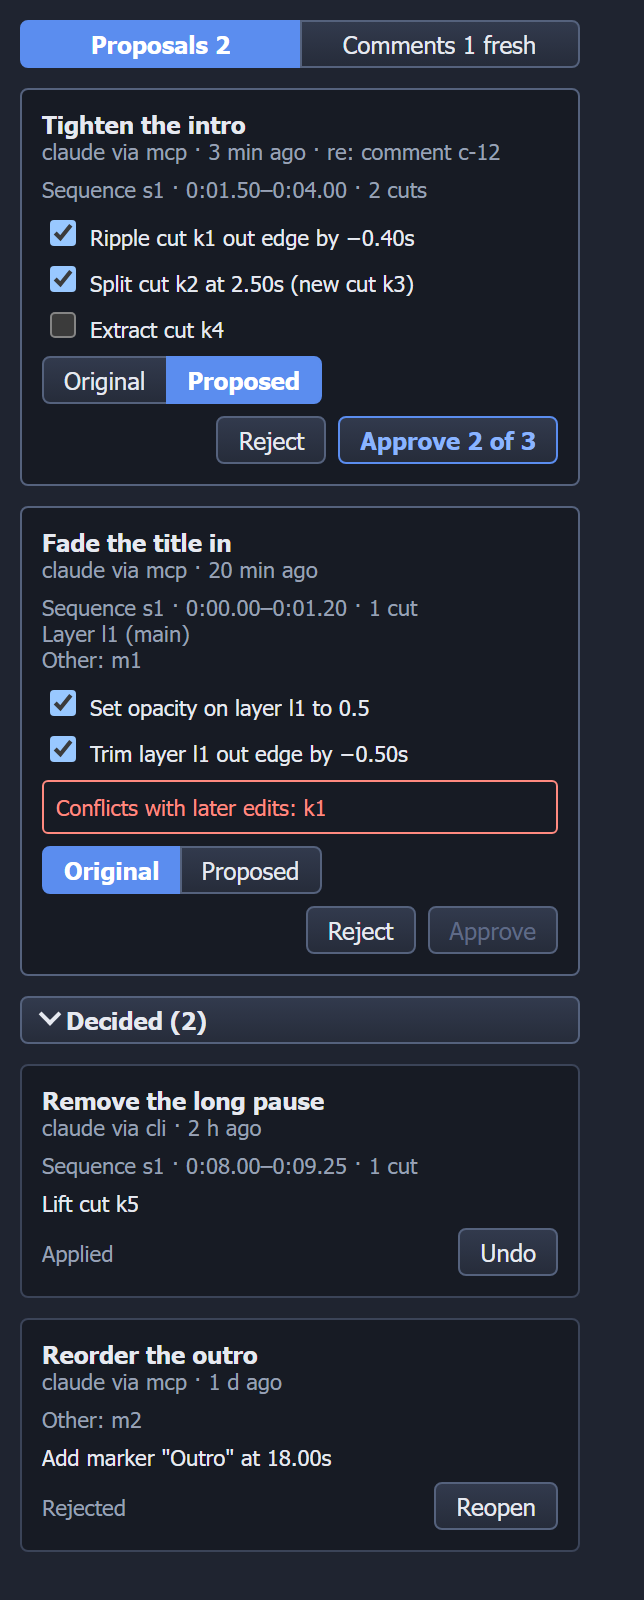
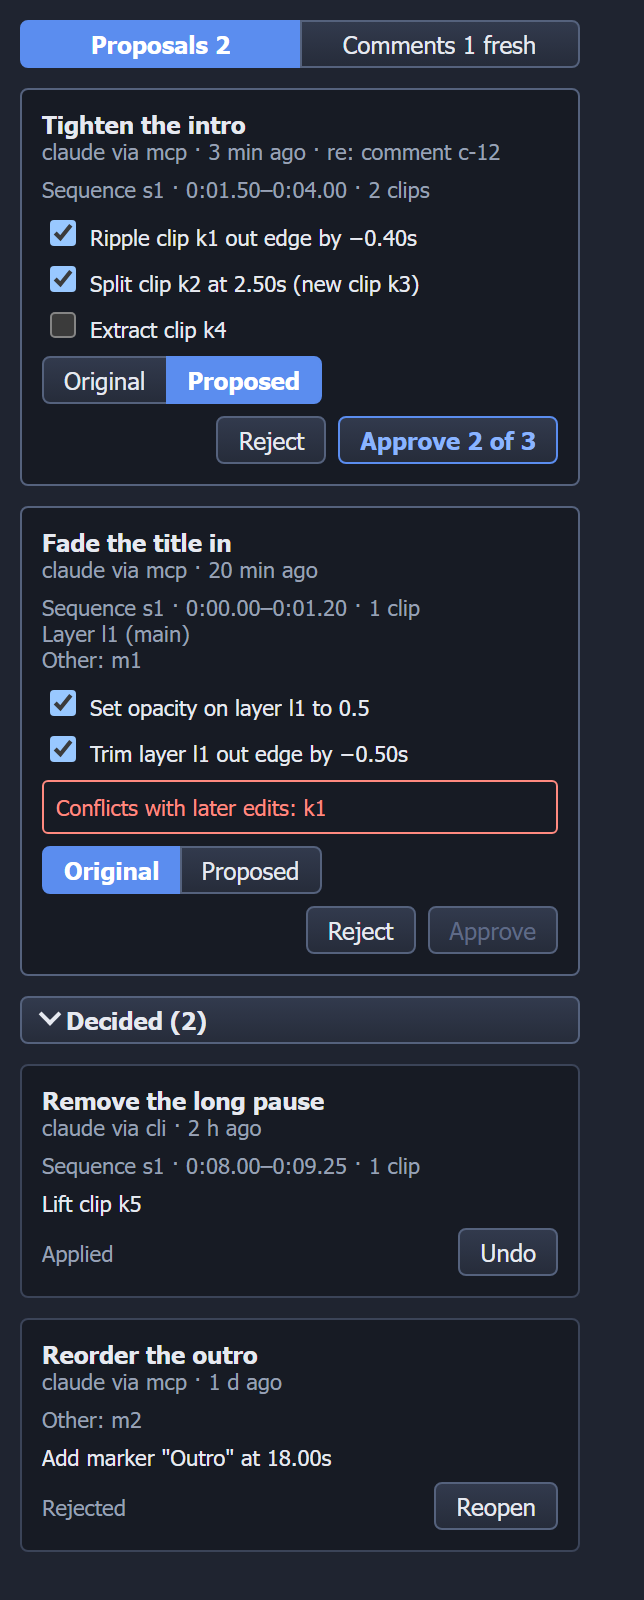
fix(movie-maker): 画面ではシーケンスのカットを Clip と呼ぶ（Transitions と Review）
設計書 18-ui-clarity.md の「文言」の決まり（シーケンスのカットは画面では Clip）に、
Transitions のパネルの帯と最初のクリップの文、Review のパネルの操作と範囲の行を合わせる。
Review のスクリーンショットを撮り直し、Transitions のテストの失敗の例を英語の IPC のエラーにする。

Claude-Session: https://claude.ai/code/session_019jHytpcCXvKc7poCLp9Pj5

diff --git a/movie-maker/ui/panels/review/src/model.ts b/movie-maker/ui/panels/review/src/model.ts
@@ -59,7 +59,7 @@ const valueText = (v: ParamValue): string => {
 
 const paramOwner = (target: ParamRef): string => {
   if (target.layer) return `layer ${target.layer}`;
-  if (target.cut) return `cut ${target.cut}`;
+  if (target.cut) return `clip ${target.cut}`;
   return "project";
 };
 
@@ -68,19 +68,19 @@ const keyframeText = (k: Keyframe): string => `${plainSeconds(k.time)} to ${valu
 type Describers = { [N in OpName]?: (op: OpOf<N>) => string };
 
 const DESCRIBERS: Describers = {
-  ripple: (o) => `Ripple cut ${o.cut} ${o.edge} edge by ${signedSeconds(rationalSeconds(o.by))}`,
-  roll: (o) => `Roll cut ${o.cut} by ${signedSeconds(rationalSeconds(o.by))}`,
-  slip: (o) => `Slip cut ${o.cut} by ${signedSeconds(rationalSeconds(o.by))}`,
-  slide: (o) => `Slide cut ${o.cut} by ${signedSeconds(rationalSeconds(o.by))}`,
-  split: (o) => `Split cut ${o.cut} at ${plainSeconds(o.at)} (new cut ${o.new_cut})`,
-  join: (o) => `Join cut ${o.cut} with ${o.next}`,
-  insert: (o) => `Insert cut ${o.cut.id} into sequence ${o.sequence} at ${o.index}`,
-  overwrite: (o) => `Replace cut ${o.cut} with ${o.replacement.id}`,
-  extract: (o) => `Extract cut ${o.cut}`,
-  lift: (o) => `Lift cut ${o.cut}`,
-  disable: (o) => `${o.disabled === false ? "Enable" : "Disable"} cut ${o.cut}`,
-  insertCuts: (o) => `Insert ${plural(o.cuts.length, "cut")} into sequence ${o.sequence} at ${o.index}`,
-  extractCuts: (o) => `Extract ${plural(o.count, "cut")} from sequence ${o.sequence} at ${o.index}`,
+  ripple: (o) => `Ripple clip ${o.cut} ${o.edge} edge by ${signedSeconds(rationalSeconds(o.by))}`,
+  roll: (o) => `Roll clip ${o.cut} by ${signedSeconds(rationalSeconds(o.by))}`,
+  slip: (o) => `Slip clip ${o.cut} by ${signedSeconds(rationalSeconds(o.by))}`,
+  slide: (o) => `Slide clip ${o.cut} by ${signedSeconds(rationalSeconds(o.by))}`,
+  split: (o) => `Split clip ${o.cut} at ${plainSeconds(o.at)} (new clip ${o.new_cut})`,
+  join: (o) => `Join clip ${o.cut} with ${o.next}`,
+  insert: (o) => `Insert clip ${o.cut.id} into sequence ${o.sequence} at ${o.index}`,
+  overwrite: (o) => `Replace clip ${o.cut} with ${o.replacement.id}`,
+  extract: (o) => `Extract clip ${o.cut}`,
+  lift: (o) => `Lift clip ${o.cut}`,
+  disable: (o) => `${o.disabled === false ? "Enable" : "Disable"} clip ${o.cut}`,
+  insertCuts: (o) => `Insert ${plural(o.cuts.length, "clip")} into sequence ${o.sequence} at ${o.index}`,
+  extractCuts: (o) => `Extract ${plural(o.count, "clip")} from sequence ${o.sequence} at ${o.index}`,
   trimLayer: (o) => `Trim layer ${o.layer} ${o.edge} edge by ${signedSeconds(rationalSeconds(o.by))}`,
   addLayer: (o) => `Add layer ${o.layer.id} to ${o.composition}`,
   removeLayer: (o) => `Remove layer ${o.layer}`,
@@ -100,10 +100,10 @@ export const describeOp = ({ op, touches }: ProposalOp): string => {
   return touches.length > 0 ? `${op.op} (${touches.join(", ")})` : op.op;
 };
 
-/** 範囲を `Sequence s1 · 0:01.50–0:04.00 · 2 cuts` などの行にする。 */
+/** 範囲を `Sequence s1 · 0:01.50–0:04.00 · 2 clips` などの行にする。 */
 export const describeScope = (scope: ProposalScope): string[] => [
   ...scope.sequences.map(
-    (s) => `Sequence ${s.id} · ${clock(s.start)}–${clock(s.end)} · ${plural(s.cuts.length, "cut")}`,
+    (s) => `Sequence ${s.id} · ${clock(s.start)}–${clock(s.end)} · ${plural(s.cuts.length, "clip")}`,
   ),
   ...scope.layers.map((l) => `Layer ${l.id} (${l.comp})`),
   ...(scope.other.length > 0 ? [`Other: ${scope.other.join(", ")}`] : []),

diff --git a/movie-maker/ui/panels/review/src/model.test.ts b/movie-maker/ui/panels/review/src/model.test.ts
@@ -8,8 +8,8 @@ const t = (num: number, den = 100) => ({ num, den });
 
 describe("describeOp", () => {
   it("リップルは端と秒数を符号つきで書く", () => {
-    expect(line({ op: "ripple", cut: "k1", edge: "out", by: t(-40) })).toBe("Ripple cut k1 out edge by −0.40s");
-    expect(line({ op: "ripple", cut: "k1", edge: "in", by: t(1, 4) })).toBe("Ripple cut k1 in edge by +0.25s");
+    expect(line({ op: "ripple", cut: "k1", edge: "out", by: t(-40) })).toBe("Ripple clip k1 out edge by −0.40s");
+    expect(line({ op: "ripple", cut: "k1", edge: "in", by: t(1, 4) })).toBe("Ripple clip k1 in edge by +0.25s");
   });
 
   it("setParam は持ち主と値を書く", () => {
@@ -18,10 +18,10 @@ describe("describeOp", () => {
   });
 
   it("カットの操作を 1 行にする", () => {
-    expect(line({ op: "split", cut: "k1", at: t(250), new_cut: "k2" })).toBe("Split cut k1 at 2.50s (new cut k2)");
-    expect(line({ op: "extract", cut: "k1" })).toBe("Extract cut k1");
-    expect(line({ op: "lift", cut: "k1" })).toBe("Lift cut k1");
-    expect(line({ op: "disable", cut: "k1", disabled: false })).toBe("Enable cut k1");
+    expect(line({ op: "split", cut: "k1", at: t(250), new_cut: "k2" })).toBe("Split clip k1 at 2.50s (new clip k2)");
+    expect(line({ op: "extract", cut: "k1" })).toBe("Extract clip k1");
+    expect(line({ op: "lift", cut: "k1" })).toBe("Lift clip k1");
+    expect(line({ op: "disable", cut: "k1", disabled: false })).toBe("Enable clip k1");
   });
 
   it("レイヤーとマーカーの操作を 1 行にする", () => {
@@ -46,7 +46,7 @@ describe("describeScope", () => {
         layers: [{ comp: "main", id: "l1" }],
         other: ["m1"],
       }),
-    ).toEqual(["Sequence s1 · 0:01.50–0:04.00 · 2 cuts", "Layer l1 (main)", "Other: m1"]);
+    ).toEqual(["Sequence s1 · 0:01.50–0:04.00 · 2 clips", "Layer l1 (main)", "Other: m1"]);
   });
 });
 

diff --git a/movie-maker/ui/panels/transition/src/TransitionPanel.test.tsx b/movie-maker/ui/panels/transition/src/TransitionPanel.test.tsx
@@ -57,7 +57,7 @@ describe("TransitionPanel の表示", () => {
 
   it("最初のカットはトランジションを選べない", async () => {
     await mount();
-    expect(host.textContent).toContain("The first cut has no previous cut.");
+    expect(host.textContent).toContain("The first clip has no previous clip.");
     expect(kind()).toBeNull();
   });
 
@@ -127,9 +127,9 @@ describe("TransitionPanel の失敗と例外", () => {
 
   it("読み込みの失敗は、次に読めたら消す", async () => {
     const api = await mount({
-      cuts: vi.fn().mockRejectedValueOnce(new Error("プロジェクトを開いていない")).mockResolvedValue(state()),
+      cuts: vi.fn().mockRejectedValueOnce(new Error("No project open")).mockResolvedValue(state()),
     });
-    expect(host.querySelector(".mm-tr-error")?.textContent).toBe("プロジェクトを開いていない");
+    expect(host.querySelector(".mm-tr-error")?.textContent).toBe("No project open");
     act(() => render(<TransitionPanel api={api} refreshKey={1} />, host));
     await settle();
     expect(host.querySelector(".mm-tr-error")).toBeNull();

diff --git a/movie-maker/ui/panels/transition/src/TransitionPanel.tsx b/movie-maker/ui/panels/transition/src/TransitionPanel.tsx
@@ -59,7 +59,7 @@ const useTransitions = (api: TransitionApi, refreshKey: number) => {
 
 /** カットを幅（長さに比例）で並べた帯。境のトランジションは、カットの頭に印と名前を出す。 */
 const Strip = ({ cuts, selected, onSelect }: { cuts: TransitionCut[]; selected: string | null; onSelect: (id: string) => void }) => (
-  <ol class="mm-tr-strip" aria-label="Cuts">
+  <ol class="mm-tr-strip" aria-label="Clips">
     {cuts.map((cut) => (
       <li key={cut.id} class="mm-tr-cell" style={{ flexGrow: cut.duration }}>
         <button
@@ -104,7 +104,7 @@ const Editor = ({ cut, first, kinds, onSet, onRemove }: EditorProps) => {
     <div class="mm-tr-editor">
       <h3 class="mm-tr-title">Transition into {cut.id}</h3>
       {first ? (
-        <p class="mm-tr-meta">The first cut has no previous cut.</p>
+        <p class="mm-tr-meta">The first clip has no previous clip.</p>
       ) : (
         <>
           <label class="mm-tr-row">

diff --git a/movie-maker/ui/panels/review/src/ReviewPanel.test.tsx b/movie-maker/ui/panels/review/src/ReviewPanel.test.tsx
@@ -81,8 +81,8 @@ describe("ReviewPanel の一覧", () => {
     expect(text).toContain("claude via mcp");
     expect(text).toContain("3 min ago");
     expect(text).toContain("c-9");
-    expect(text).toContain("Sequence s1 · 0:01.50–0:04.00 · 2 cuts");
-    expect(text).toContain("Extract cut k1");
+    expect(text).toContain("Sequence s1 · 0:01.50–0:04.00 · 2 clips");
+    expect(text).toContain("Extract clip k1");
   });
 
   it("読み込みの失敗をパネルの上に出す", async () => {
